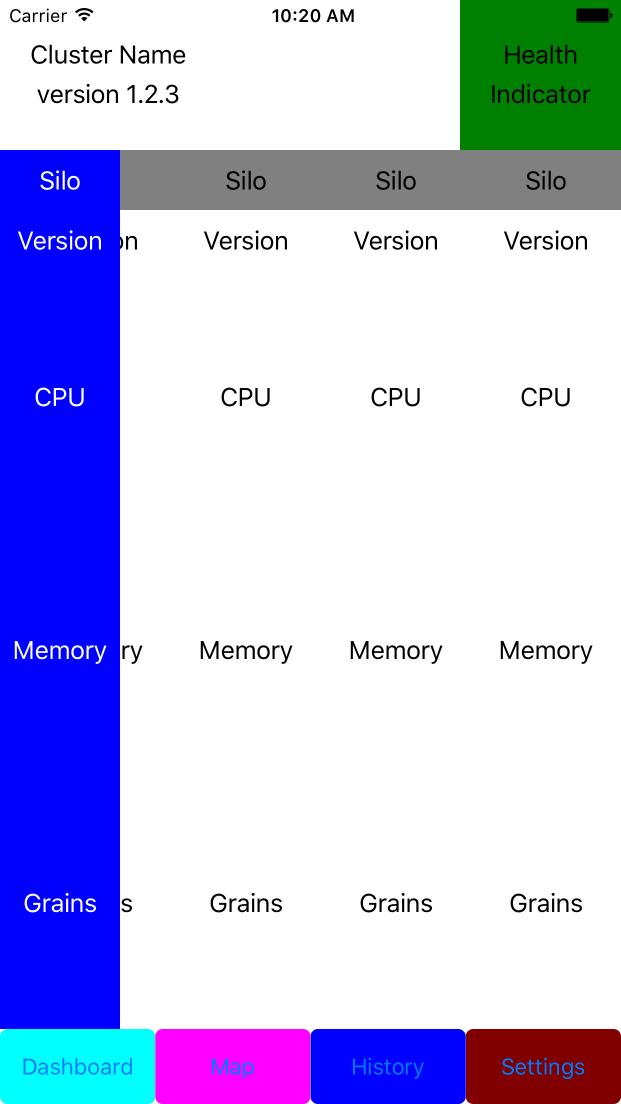
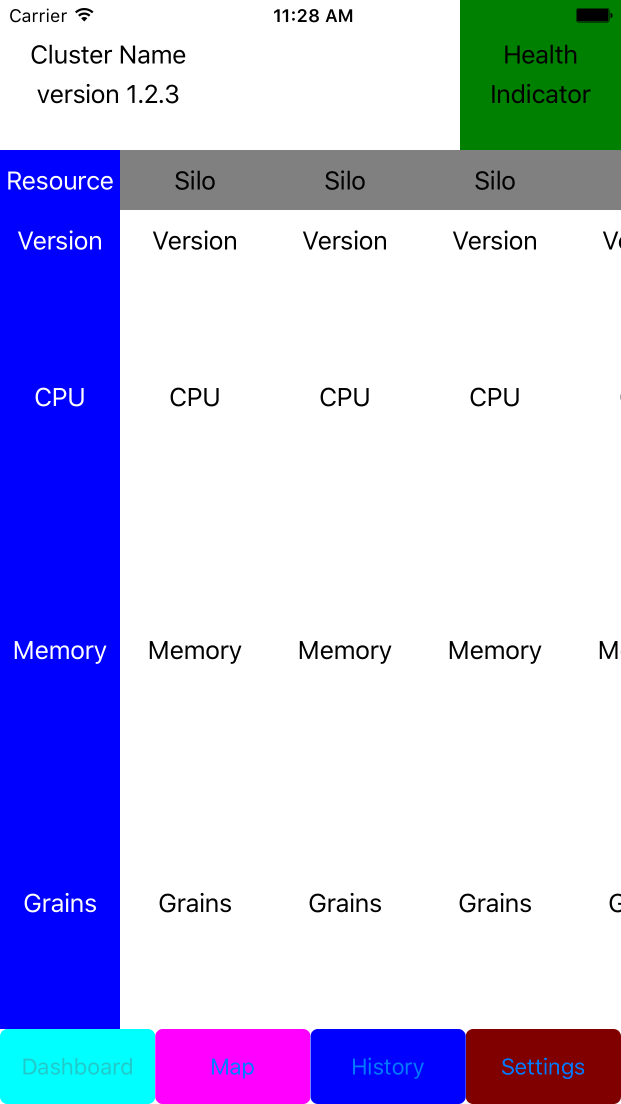
updated screenshots

diff --git a/DashboardClient/Views/ClusterDashboardView.xaml b/DashboardClient/Views/ClusterDashboardView.xaml
@@ -41,7 +41,7 @@
 					<RowDefinition Height="*"/>
 				</Grid.RowDefinitions>
 				
-				<Label Grid.Row="0" Text="Silo" TextColor="White" VerticalTextAlignment="Center"/>
+				<Label Grid.Row="0" Text="Resource" TextColor="White" VerticalTextAlignment="Center"/>
 				<Label Grid.Row="1" Text="Version" TextColor="White" VerticalTextAlignment="Center"/>
 				<Label Grid.Row="2" Text="CPU" TextColor="White" VerticalTextAlignment="Center"/>
 				<Label Grid.Row="3" Text="Memory" TextColor="White" VerticalTextAlignment="Center"/>
